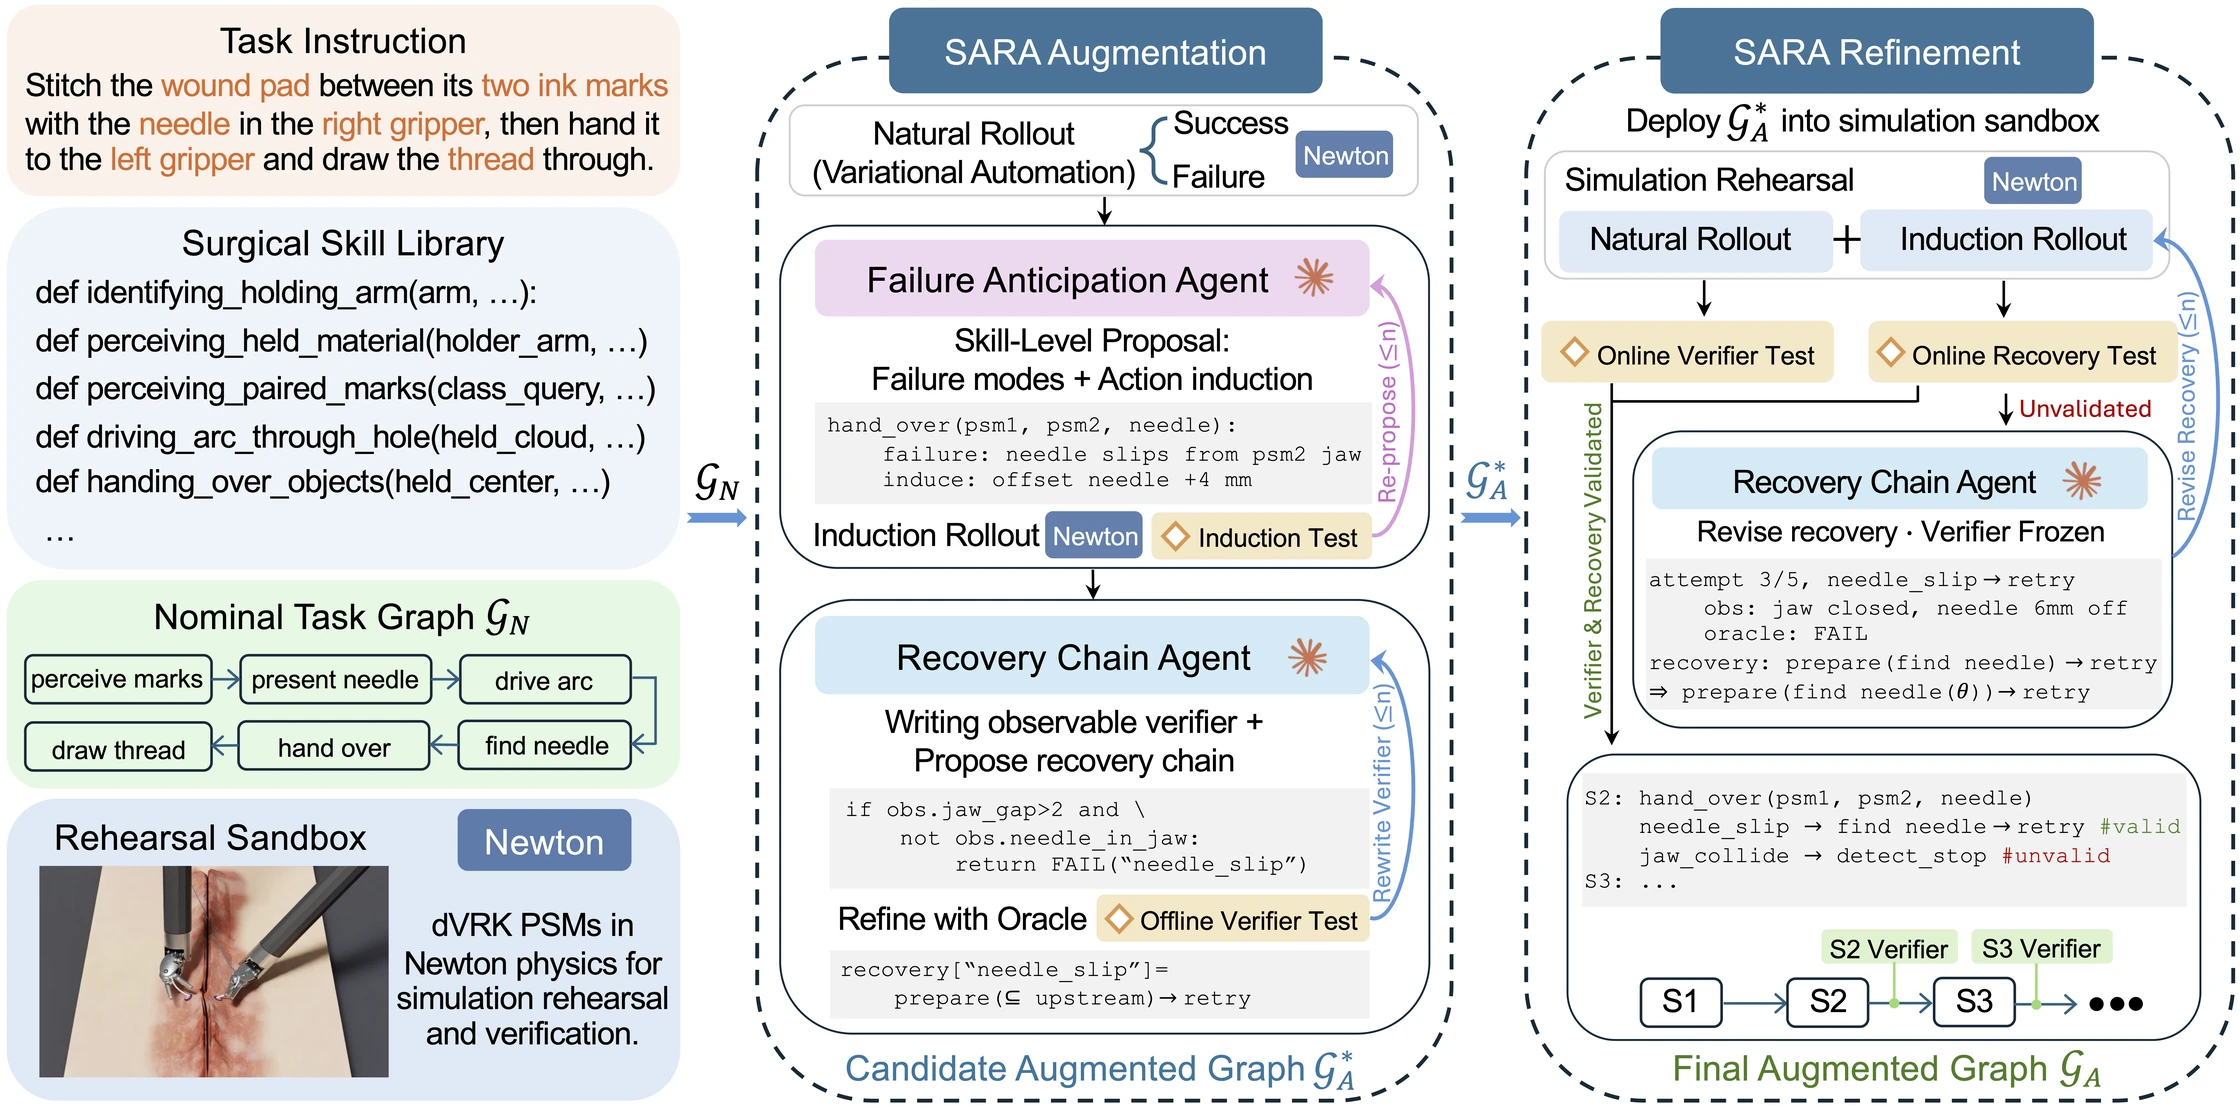
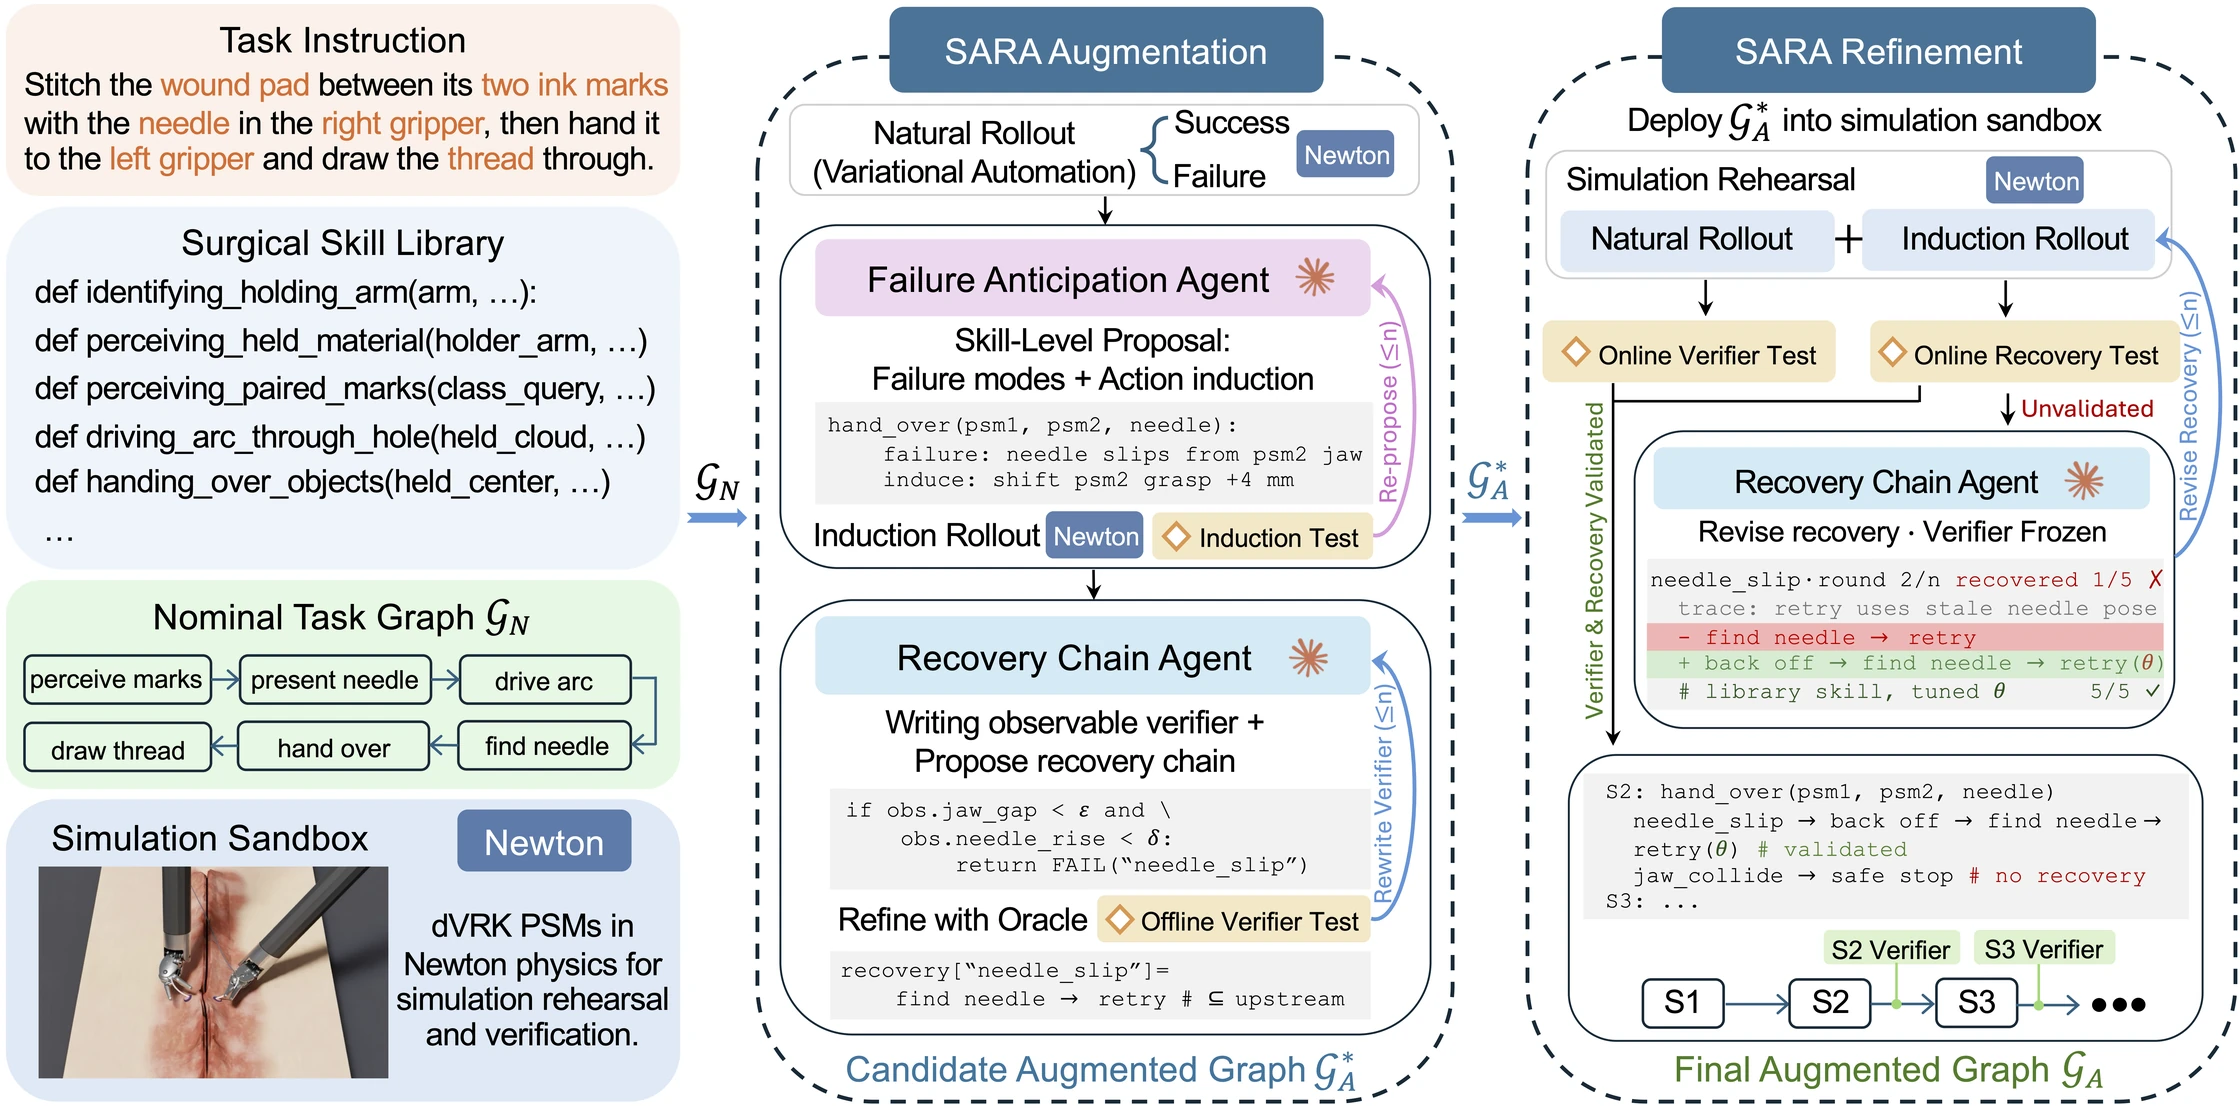
Refresh SARA pipeline figure

diff --git a/index.html b/index.html
@@ -57,7 +57,7 @@
 <section class="section method-section" id="method"><div class="container">
 <p class="method-question">Can emerging coding agents deliver augmented dexterity across diverse surgical tasks and remain reliable when failures occur?</p>
 <div class="section-heading"><h2>Method</h2></div>
-<figure class="research-figure"><button class="figure-zoom" type="button" data-image="static/images/sara_pipeline.png?v=c47ee25a50ba" aria-label="Enlarge the SARA method pipeline"><img src="static/images/sara_pipeline-1120.webp?v=11500657dcfa" srcset="static/images/sara_pipeline-1120.webp?v=11500657dcfa 1120w, static/images/sara_pipeline-2240.webp?v=8d0fe798853c 2240w" sizes="(max-width: 760px) calc(100vw - 36px), (max-width: 1184px) calc(100vw - 64px), 1120px" alt="SARA agentic harness: Failure Anticipation and Recovery Chain agents augment a nominal task graph using natural and induced Newton rollouts, validate observable verifiers against privileged oracles, and refine recovery chains to produce the final augmented graph." width="2240" height="1108" loading="lazy" decoding="async"><span class="zoom-hint">Enlarge figure ↗</span></button><figcaption><strong>SARA:</strong> Two specialized agents coordinate the augmentation and refinement of a nominal task graph <math aria-label="G subscript N"><msub><mi>𝒢</mi><mi>N</mi></msub></math>. During <em>SARA Augmentation</em>, the <em>Failure Anticipation</em> agent proposes skill-level failure modes and actions to induce them in the Newton sandbox. The <em>Recovery Chain</em> agent analyzes natural and induced rollouts, synthesizes observable verifiers evaluated against privileged oracles, and proposes candidate recovery chains, yielding a candidate augmented graph <math aria-label="G subscript A star"><msubsup><mi>𝒢</mi><mi>A</mi><mo>∗</mo></msubsup></math>. During <em>SARA Refinement</em>, the candidate graph is rehearsed in the sandbox, and ineffective recovery chains are iteratively revised by tracing upstream skills and tuning adjustable parameters. Only validated verifiers and recovery chains are retained in the final augmented graph <math aria-label="G subscript A"><msub><mi>𝒢</mi><mi>A</mi></msub></math> for task execution with failure recovery.</figcaption></figure>
+<figure class="research-figure"><button class="figure-zoom" type="button" data-image="static/images/sara_pipeline.png?v=23565d1aefe4" aria-label="Enlarge the SARA method pipeline"><img src="static/images/sara_pipeline-1120.webp?v=d8663c4358d4" srcset="static/images/sara_pipeline-1120.webp?v=d8663c4358d4 1120w, static/images/sara_pipeline-2240.webp?v=807407f1055d 2240w" sizes="(max-width: 760px) calc(100vw - 36px), (max-width: 1184px) calc(100vw - 64px), 1120px" alt="SARA agentic harness: Failure Anticipation and Recovery Chain agents augment a nominal task graph using natural and induced Newton rollouts, validate observable verifiers against privileged oracles, and refine recovery chains to produce the final augmented graph." width="2240" height="1108" loading="lazy" decoding="async"><span class="zoom-hint">Enlarge figure ↗</span></button><figcaption><strong>SARA:</strong> Two specialized agents coordinate the augmentation and refinement of a nominal task graph <math aria-label="G subscript N"><msub><mi>𝒢</mi><mi>N</mi></msub></math>. During <em>SARA Augmentation</em>, the <em>Failure Anticipation</em> agent proposes skill-level failure modes and actions to induce them in the Newton sandbox. The <em>Recovery Chain</em> agent analyzes natural and induced rollouts, synthesizes observable verifiers evaluated against privileged oracles, and proposes candidate recovery chains, yielding a candidate augmented graph <math aria-label="G subscript A star"><msubsup><mi>𝒢</mi><mi>A</mi><mo>∗</mo></msubsup></math>. During <em>SARA Refinement</em>, the candidate graph is rehearsed in the sandbox, and ineffective recovery chains are iteratively revised by tracing upstream skills and tuning adjustable parameters. Only validated verifiers and recovery chains are retained in the final augmented graph <math aria-label="G subscript A"><msub><mi>𝒢</mi><mi>A</mi></msub></math> for task execution with failure recovery.</figcaption></figure>
 </div></section>
 <section class="section results-section" id="simulation"><div class="container">
 <div class="section-heading"><h2>Simulation</h2><p>Eight surgical tasks in Newton-based simulation.</p></div>

diff --git a/README.md b/README.md
@@ -119,8 +119,8 @@ sequences. Responsive 1120px/2240px WebP previews (approximately 141/335 KB) loa
 eagerly with high priority instead of the 9.7 MB PNG. The previews preserve the
 source color profile. Clicking first shows the cached preview, then replaces it
 with the original full-resolution image once loaded. Method also uses responsive
-1120px/2240px WebP previews (approximately 130/303 KB), loaded lazily with
-asynchronous decoding; its 8737×4322 PNG is fetched when enlarged. Both research figures have
+1120px/2240px WebP previews (approximately 132/307 KB), loaded lazily with
+asynchronous decoding; its 8725×4315 PNG is fetched when enlarged. Both research figures have
 full-width, 16px explanatory captions with an emphasized opening title. The captions
 use native inline MathML for the nominal, candidate augmented, and final augmented
 graphs, without a separate math-rendering script. Agent names and method phases are
@@ -192,7 +192,7 @@ All other intervals show normal execution.
 
 - Overview original: `static/images/abstract.png` (5545×3313, unchanged; loaded on zoom and used by social metadata).
 - Overview previews: `static/images/abstract-1120.webp` and `static/images/abstract-2240.webp` (responsive, content-versioned URLs).
-- Method original: `static/images/sara_pipeline.png` (8737×4322, preserved for zoom).
+- Method original: `static/images/sara_pipeline.png` (8725×4315, preserved for zoom).
 - Method previews: `static/images/sara_pipeline-1120.webp` and `static/images/sara_pipeline-2240.webp` (responsive, content-versioned URLs).
 - Video posters: `static/images/posters/`.
 - Published physical videos: `static/videos_web/` (H.264, original resolution, fast-start MP4).
